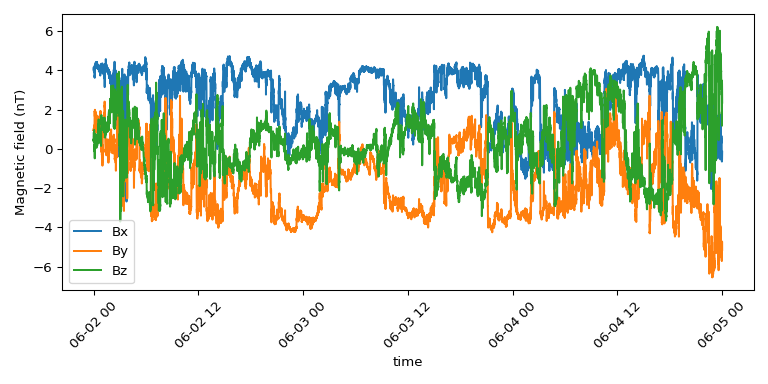
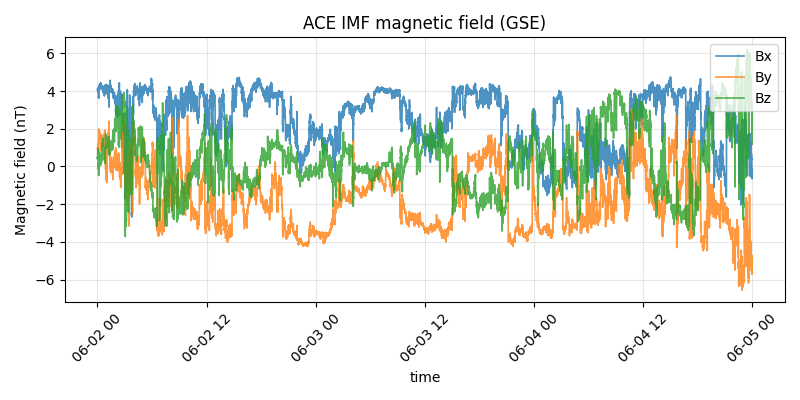
Strengthen the plotting.rst customization example, add an overlay example
The "Customizing the plot" example only passed ax/labels/units/yaxis_label --
nothing actually forwarded to matplotlib -- so its rendered image was visually
indistinguishable from the basic line plot above it. Rewrote it to use a real
forwarded kwarg (linewidth/alpha) plus ax-level customization (title, grid,
legend placement) that the returned Axes makes possible, and regenerated
plotting_custom.png to match.

Added a follow-up example showing the same ax=ax pattern used to overlay a
second, independently fetched product (ACE's total field magnitude) on top of
the IMF components, since that's a common real use case the page didn't cover.

diff --git a/docs/user/plotting.rst b/docs/user/plotting.rst
@@ -39,20 +39,44 @@ Customizing the plot
 ---------------------
 
 ``.plot()`` accepts ``ax``, ``labels``, ``units``, ``xaxis_label`` and ``yaxis_label``, falling back to
-the variable's own metadata whenever one isn't given. Pass ``ax`` to draw into an existing figure; any
-other keyword (``linestyle``, ``cmap``, ...) is forwarded straight through to the underlying matplotlib
-call:
+the variable's own metadata whenever one isn't given. Pass ``ax`` to draw into an existing figure, and
+any other keyword (``linewidth``, ``linestyle``, ``alpha``, ...) is forwarded straight through to
+matplotlib's ``Axes.plot``. It also returns the ``Axes`` it drew into, so you can keep customizing with
+the full matplotlib API afterward:
 
 .. code-block:: python
 
-    fig, ax = plt.subplots()
-    b.plot(ax=ax, labels=["Bx", "By", "Bz"], units="nT", yaxis_label="Magnetic field")
+    fig, ax = plt.subplots(figsize=(8, 4))
+    b.plot(ax=ax, labels=["Bx", "By", "Bz"], units="nT", yaxis_label="Magnetic field",
+           linewidth=1.2, alpha=0.8)
+    ax.set_title("ACE IMF magnetic field (GSE)")
+    ax.grid(alpha=0.3)
+    ax.legend(loc="upper right")
+    plt.tight_layout()
     plt.show()
 
 .. image:: images/plotting_custom.png
     :width: 700
     :align: center
-    :alt: the same data with custom labels and axis title
+    :alt: the same data with a title, grid, thinner lines and a repositioned legend
+
+Passing the same ``ax`` around is also how you overlay independently fetched products on one plot, for
+example to compare the IMF components against the total field magnitude:
+
+.. code-block:: python
+
+    b_mag = spz.get_data("amda/imf_mag", "2016-6-2", "2016-6-5")
+
+    fig, ax = plt.subplots(figsize=(8, 4))
+    b.plot(ax=ax, labels=["Bx", "By", "Bz"], units="nT", yaxis_label="Magnetic field", alpha=0.6)
+    b_mag.plot(ax=ax, labels=["|B|"], units="nT", yaxis_label="Magnetic field", color="k", linewidth=1.5)
+    ax.legend(loc="upper right")
+    plt.show()
+
+.. image:: images/plotting_overlay.png
+    :width: 700
+    :align: center
+    :alt: the IMF components with the total field magnitude overlaid in black
 
 Spectrograms
 ------------